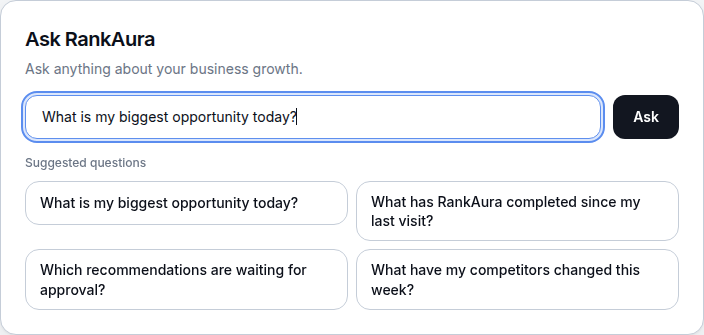
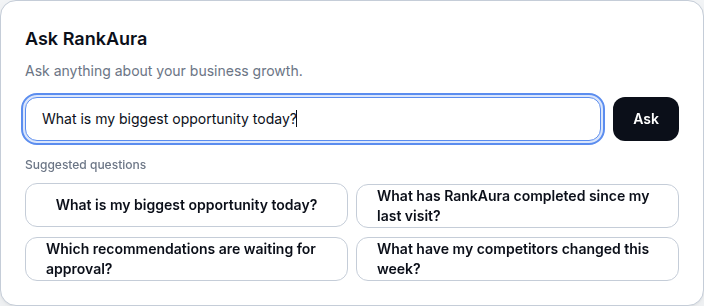
Conform Ask RankAura 100% to Workspace design system.
Reuse ButtonSecondary for suggested questions (no unique question chrome).
Match Ask section heading/spacing to peer Workspace cards. Remove Ask-only
answer divider and source callout box so no Ask-specific visuals remain.

diff --git a/tests/rankaura-design-system.test.js b/tests/rankaura-design-system.test.js
@@ -1,5 +1,5 @@
 /**
- * Design system contract — tokens and reusable UI components exist.
+ * Design system contract — Ask must reuse Workspace shared controls only.
  */
 const assert = require("assert");
 const fs = require("fs");
@@ -15,16 +15,19 @@ const globals = fs.readFileSync(
   "utf8",
 );
 const uiDir = path.join(root, "rankaura-web", "components", "ui");
-const askInput = fs.readFileSync(
-  path.join(
-    root,
-    "rankaura-web",
-    "components",
-    "ask-rankaura",
-    "AskRankAuraInput.tsx",
-  ),
+const askDir = path.join(root, "rankaura-web", "components", "ask-rankaura");
+const askInput = fs.readFileSync(path.join(askDir, "AskRankAuraInput.tsx"), "utf8");
+const askCard = fs.readFileSync(path.join(askDir, "AskRankAuraCard.tsx"), "utf8");
+const askSuggestions = fs.readFileSync(
+  path.join(askDir, "AskRankAuraSuggestions.tsx"),
   "utf8",
 );
+const askAnswer = fs.readFileSync(path.join(askDir, "AskRankAuraAnswer.tsx"), "utf8");
+const askSource = fs.readFileSync(
+  path.join(askDir, "AskRankAuraSourceNotice.tsx"),
+  "utf8",
+);
+const questionChip = fs.readFileSync(path.join(uiDir, "QuestionChip.tsx"), "utf8");
 const mock = fs.readFileSync(
   path.join(
     root,
@@ -57,11 +60,39 @@ assert.ok(fs.existsSync(path.join(uiDir, "RecommendationCard.tsx")));
 assert.ok(fs.existsSync(path.join(uiDir, "SuccessMark.tsx")));
 assert.ok(!askInput.includes("min-w-ra-ask"));
 assert.ok(!askInput.includes("min-w-["));
-assert.ok(!fs.readFileSync(path.join(root, "rankaura-web", "components", "ask-rankaura", "AskRankAuraCard.tsx"), "utf8").includes("accent"));
-assert.ok(fs.readFileSync(path.join(uiDir, "ButtonPrimary.tsx"), "utf8").includes("BUTTON_PRIMARY_CLASSNAME"));
-assert.ok(fs.readFileSync(path.join(uiDir, "SurfaceCard.tsx"), "utf8").includes("SURFACE_CARD_CLASSNAME"));
-assert.ok(!fs.readFileSync(path.join(uiDir, "SurfaceCard.tsx"), "utf8").includes("ra-card-accent"));
-assert.ok(!fs.readFileSync(path.join(uiDir, "SurfaceCard.tsx"), "utf8").includes("accent?:"));
+assert.ok(!askCard.includes("accent"));
+assert.ok(!askCard.includes("tracking-tight"));
+assert.ok(!askCard.includes("sm:text-xl"));
+assert.ok(askCard.includes("text-lg font-semibold text-ra-ink"));
+assert.ok(askCard.includes("SurfaceCard"));
+assert.ok(askSuggestions.includes("ButtonSecondary"));
+assert.ok(!askSuggestions.includes("QuestionChip"));
+assert.ok(!askAnswer.includes("border-t"));
+assert.ok(!askSource.includes("rounded-ra-md border"));
+assert.ok(!askSource.includes("bg-ra-neutral-soft"));
+assert.ok(questionChip.includes("ButtonSecondary"));
+assert.ok(questionChip.includes("BUTTON_SECONDARY_CLASSNAME"));
+assert.ok(!questionChip.includes("rounded-ra-lg"));
+assert.ok(
+  fs
+    .readFileSync(path.join(uiDir, "ButtonPrimary.tsx"), "utf8")
+    .includes("BUTTON_PRIMARY_CLASSNAME"),
+);
+assert.ok(
+  fs
+    .readFileSync(path.join(uiDir, "SurfaceCard.tsx"), "utf8")
+    .includes("SURFACE_CARD_CLASSNAME"),
+);
+assert.ok(
+  !fs
+    .readFileSync(path.join(uiDir, "SurfaceCard.tsx"), "utf8")
+    .includes("ra-card-accent"),
+);
+assert.ok(
+  !fs
+    .readFileSync(path.join(uiDir, "SurfaceCard.tsx"), "utf8")
+    .includes("accent?:"),
+);
 assert.ok(!globals.includes("--ra-border-accent"));
 assert.ok(
   !fs

diff --git a/rankaura-web/components/ui/QuestionChip.tsx b/rankaura-web/components/ui/QuestionChip.tsx
@@ -1,9 +1,15 @@
 import type { ButtonHTMLAttributes, ReactNode } from "react";
+import {
+  ButtonSecondary,
+  BUTTON_SECONDARY_CLASSNAME,
+} from "@/components/ui/ButtonSecondary";
 import { cn } from "@/utils/cn";
 
-/** THE one question button. Not a badge. Not a pill. */
-export const QUESTION_BUTTON_CLASSNAME =
-  "min-h-[44px] w-full rounded-ra-lg border border-ra-border bg-ra-surface px-3.5 py-2.5 text-left text-sm font-medium leading-snug text-ra-ink transition-colors duration-150 hover:border-ra-border-strong hover:bg-ra-surface-subtle active:border-ra-border-strong active:bg-ra-neutral-soft focus-visible:outline focus-visible:outline-2 focus-visible:outline-offset-2 focus-visible:outline-ra-focus";
+/**
+ * Suggested-question control = THE outlined secondary button.
+ * Layout-only helpers for full-width multi-line labels. No unique chrome.
+ */
+export const QUESTION_BUTTON_CLASSNAME = BUTTON_SECONDARY_CLASSNAME;
 
 interface QuestionChipProps extends ButtonHTMLAttributes<HTMLButtonElement> {
   children: ReactNode;
@@ -17,13 +23,16 @@ export function QuestionChip({
   ...props
 }: QuestionChipProps) {
   return (
-    <button
+    <ButtonSecondary
       type={type}
-      className={cn(QUESTION_BUTTON_CLASSNAME, className)}
+      className={cn(
+        "h-auto min-h-ra-control w-full justify-start text-left whitespace-normal",
+        className,
+      )}
       {...props}
     >
       {children}
-    </button>
+    </ButtonSecondary>
   );
 }
 

diff --git a/rankaura-web/components/ask-rankaura/AskRankAuraSuggestions.tsx b/rankaura-web/components/ask-rankaura/AskRankAuraSuggestions.tsx
@@ -1,6 +1,6 @@
 "use client";
 
-import { QuestionChip } from "@/components/ui/QuestionChip";
+import { ButtonSecondary } from "@/components/ui/ButtonSecondary";
 import type { AskRankAuraSuggestedQuestion } from "@/types/askRankAura";
 
 interface AskRankAuraSuggestionsProps {
@@ -8,6 +8,7 @@ interface AskRankAuraSuggestionsProps {
   onSelect: (text: string) => void;
 }
 
+/** Suggested questions reuse THE outlined secondary button — no Ask-only control. */
 export function AskRankAuraSuggestions({
   suggestions,
   onSelect,
@@ -21,9 +22,13 @@ export function AskRankAuraSuggestions({
       <ul className="mt-2.5 grid gap-2 sm:grid-cols-2">
         {items.map((suggestion) => (
           <li key={suggestion.id}>
-            <QuestionChip onClick={() => onSelect(suggestion.text)}>
+            <ButtonSecondary
+              type="button"
+              onClick={() => onSelect(suggestion.text)}
+              className="h-auto min-h-ra-control w-full justify-start text-left whitespace-normal"
+            >
               {suggestion.text}
-            </QuestionChip>
+            </ButtonSecondary>
           </li>
         ))}
       </ul>

diff --git a/rankaura-web/components/ask-rankaura/AskRankAuraSourceNotice.tsx b/rankaura-web/components/ask-rankaura/AskRankAuraSourceNotice.tsx
@@ -6,6 +6,7 @@ interface AskRankAuraSourceNoticeProps {
   availabilityNotice?: string;
 }
 
+/** Plain muted copy — same typography as Workspace support lines. No unique box. */
 export function AskRankAuraSourceNotice({
   sources,
   availabilityNotice,
@@ -22,15 +23,18 @@ export function AskRankAuraSourceNotice({
     : null;
 
   return (
-    <div
-      className="rounded-ra-md border border-ra-border bg-ra-neutral-soft px-3.5 py-3"
-      role="status"
-    >
+    <div role="status">
       {label ? (
         <p className="text-xs font-medium text-ra-muted">{label}</p>
       ) : null}
       {availabilityNotice ? (
-        <p className="mt-1 text-sm font-normal leading-relaxed text-ra-ink-soft">
+        <p
+          className={
+            label
+              ? "mt-1 text-sm font-normal text-ra-muted"
+              : "text-sm font-normal text-ra-muted"
+          }
+        >
           {availabilityNotice}
         </p>
       ) : null}

diff --git a/rankaura-web/app/design-system/page.tsx b/rankaura-web/app/design-system/page.tsx
@@ -70,12 +70,17 @@ export default function DesignSystemPage() {
         </SurfaceCard>
 
         <SurfaceCard data-testid="ds-questions">
-          <h2 className="text-base font-semibold">Question controls</h2>
+          <h2 className="text-base font-semibold">
+            Suggested questions (= ButtonSecondary)
+          </h2>
           <ul className="mt-4 grid gap-2 sm:grid-cols-2">
             <li>
-              <QuestionChip type="button">
+              <ButtonSecondary
+                type="button"
+                className="h-auto min-h-ra-control w-full justify-start text-left whitespace-normal"
+              >
                 What is my biggest opportunity today?
-              </QuestionChip>
+              </ButtonSecondary>
             </li>
             <li>
               <QuestionChip type="button">

diff --git a/rankaura-web/components/ask-rankaura/AskRankAuraAnswer.tsx b/rankaura-web/components/ask-rankaura/AskRankAuraAnswer.tsx
@@ -27,7 +27,7 @@ export function AskRankAuraAnswerPanel({
   );
 
   return (
-    <div className="mt-5 border-t border-ra-border pt-5" aria-live="polite">
+    <div className="mt-5" aria-live="polite">
       <p className="text-xs font-medium text-ra-muted">You asked</p>
       <h3
         ref={headingRef}
@@ -38,7 +38,7 @@ export function AskRankAuraAnswerPanel({
         {answer.questionText}
       </h3>
 
-      <p className="mt-4 text-base font-normal leading-relaxed text-ra-ink sm:text-lg">
+      <p className="mt-4 text-sm font-normal leading-relaxed text-ra-ink-soft sm:text-base">
         {answer.directAnswer}
       </p>
 

diff --git a/rankaura-web/components/ask-rankaura/AskRankAuraCard.tsx b/rankaura-web/components/ask-rankaura/AskRankAuraCard.tsx
@@ -59,11 +59,11 @@ export function AskRankAuraCard({ data }: AskRankAuraCardProps) {
     >
       <h2
         id="ask-rankaura-heading"
-        className="text-lg font-semibold tracking-tight text-ra-ink sm:text-xl"
+        className="text-lg font-semibold text-ra-ink"
       >
         {data.card.heading}
       </h2>
-      <p className="mt-1.5 text-sm font-normal text-ra-muted">
+      <p className="mt-2 text-sm font-normal text-ra-muted">
         {data.card.support}
       </p>
 

diff --git a/rankaura-web/components/ask-rankaura/AskRankAuraAnswerSection.tsx b/rankaura-web/components/ask-rankaura/AskRankAuraAnswerSection.tsx
@@ -10,7 +10,7 @@ export function AskRankAuraAnswerSectionView({
 }: AskRankAuraAnswerSectionProps) {
   return (
     <div>
-      <h4 className="text-[11px] font-medium tracking-[0.1em] text-ra-muted">
+      <h4 className="text-[11px] font-medium tracking-[0.08em] text-ra-muted">
         {section.title.toUpperCase()}
       </h4>
       <p className="mt-1.5 text-sm font-normal leading-relaxed text-ra-ink-soft">

diff --git a/docs/DESIGN_SYSTEM.md b/docs/DESIGN_SYSTEM.md
@@ -13,7 +13,7 @@
 
 2. **Every button, badge, input and interactive control must come from the shared RankAura component system.**
 
-3. **One Primary Button. One Secondary Button. One Badge. One Input. One Question Button. One Card. Reuse them everywhere. No Ask RankAura exceptions.**
+3. **One Primary Button. One Secondary (outlined) Button. One Badge. One Input. One Card. Reuse them everywhere. No Ask RankAura exceptions. Suggested questions use ButtonSecondary — not a unique pill.**
 
 4. Borders provide most of the structure. Shadows stay minimal.
 
@@ -71,7 +71,7 @@
 |-------|-------|--------|
 | `--ra-radius-sm` | `8px` | Compact badges may still use pill |
 | `--ra-radius-md` | `12px` | Buttons, inputs |
-| `--ra-radius-lg` | `14px` | Question buttons |
+| `--ra-radius-lg` | `14px` | Reserved (do not invent Ask-only uses) |
 | `--ra-radius-xl` | `16px` | Primary cards |
 | `--ra-radius-full` | `9999px` | Status badges only |
 
@@ -110,12 +110,11 @@ White, visible border, no default shadow, dark text, placeholder token.
 Hover: stronger border. Focus: focus border + ring. Disabled: subtle fill + muted text.
 
 ### QuestionButton / QuestionChip
-Rounded rectangle (lg), visible border, medium weight, white surface.  
-Hover/pressed: stronger border + subtle fill. Comfortable touch target. Not a status pill.
+**Alias of ButtonSecondary** (the outlined button). Same height, radius, border, typography, hover, focus, disabled. Layout-only helpers allowed (`w-full`, `text-left`) for multi-line suggested questions. Not a separate visual style.
 
 ### Card / SurfaceCard
 White, standard border, xl radius, shared shadow, consistent padding (`p-5 sm:p-6`).  
-Ask RankAura, Biggest Opportunity, Recent Wins, Growth Areas, and Recent Progress all use this same card. No accent variants.
+Ask RankAura, Biggest Opportunity, Recent Wins, Growth Areas, and Recent Progress all use this same card. No accent variants. No Ask-only borders, dividers, or callout boxes.
 
 ---
 
@@ -127,13 +126,17 @@ Focus-visible must be strong enough for keyboard users (2px outline + offset usi
 
 ---
 
-## Ask RankAura specifics
+## Ask RankAura compliance
 
 - Placeholder: **Ask about your business…**
-- Empty input → Ask button uses intentional **disabled** tokens
-- Valid input → Ask button switches to solid primary black immediately
+- Empty input → Ask button uses intentional **disabled** tokens (`ButtonPrimary`)
+- Valid input → Ask button switches to solid primary black immediately (`ButtonPrimary`)
+- Suggested questions → `ButtonSecondary` (same outlined button as View Progress / Open Strategy)
+- Card → shared `SurfaceCard` (same border, radius, shadow, padding as peer Workspace cards)
+- Section heading → same as Since last visit / Recent progress (`text-lg font-semibold text-ra-ink`)
 - Desktop: input + Ask side by side, equal height
 - Mobile: stacked full-width controls
+- **Zero Ask-specific visual styles** (no unique borders, callout boxes, radii, or typography)
 
 ---
 

diff --git a/docs/PRODUCT_GUARDRAILS.md b/docs/PRODUCT_GUARDRAILS.md
@@ -71,13 +71,13 @@ Official tokens and reusable controls live in `docs/DESIGN_SYSTEM.md`, `docs/DES
 
 1. **Calm does not mean visually weak. RankAura components must remain restrained while still being clearly defined, interactive and intentional.**
 2. **Every button, badge, input and interactive control must come from the shared RankAura component system.**
-3. **One Primary Button · One Secondary Button · One Badge · One Input · One Question Button · One Card.** Reuse everywhere. No Ask RankAura exceptions.
+3. **One Primary Button · One Secondary (outlined) Button · One Badge · One Input · One Card.** Reuse everywhere. No Ask RankAura exceptions. Suggested questions use `ButtonSecondary` — not a unique pill.
 4. Every new screen must reuse design tokens — do not invent one-off greys, radii, shadows, or button styles.
-5. Primary actions share one solid ink button (`ButtonPrimary`) with an intentional disabled state (`--ra-disabled-bg` / `--ra-disabled-fg`). Secondary actions use bordered white (`ButtonSecondary`). Text actions use accent links (`ButtonGhost`).
+5. Primary actions share one solid ink button (`ButtonPrimary`) with an intentional disabled state (`--ra-disabled-bg` / `--ra-disabled-fg`). Secondary / outlined actions use bordered white (`ButtonSecondary`). Text actions use accent links (`ButtonGhost`).
 6. Badges share one anatomy; tinted fill + clearly visible matching border + stronger text. Only colour changes by variant.
-7. Ask RankAura input uses the shared `Input` and placeholder **Ask about your business…**
+7. Ask RankAura input uses the shared `Input` and placeholder **Ask about your business…**. Ask heading/padding/card chrome must match peer Workspace section cards.
 8. Borders must be subtle but clearly visible (`--ra-border`); interactive hover uses `--ra-border-strong`.
-9. If covering the text with your hand, you must not be able to tell which Workspace section a control came from.
+9. If covering the text with your hand, you must not be able to tell which Workspace section a control came from. Zero Ask-specific visual styles.
 
 ## First-use flow (LOCKED)
 

diff --git a/docs/DESIGN_TOKENS.md b/docs/DESIGN_TOKENS.md
@@ -51,7 +51,6 @@ See `docs/DESIGN_SYSTEM.md` for full component documentation.
 | Token | Value | Usage |
 |-------|-------|--------|
 | `--ra-radius-md` | `12px` | Buttons, inputs |
-| `--ra-radius-lg` | `14px` | Question buttons |
 | `--ra-radius-xl` | `16px` | Cards |
 | `--ra-radius-full` | `9999px` | Status badges only |
 
@@ -70,7 +69,7 @@ Inputs / badges / chips: no default shadow.
 
 ## Components
 
-`ButtonPrimary` · `ButtonSecondary` · `ButtonGhost` · `Badge` · `Input` · `QuestionChip` / `QuestionButton` · `SurfaceCard` / `Card` · `TimelineItem` · `GrowthCard` · `RecommendationCard` · `SuccessMark`
+`ButtonPrimary` · `ButtonSecondary` (also used for suggested questions / `QuestionChip` alias) · `ButtonGhost` · `Badge` · `Input` · `SurfaceCard` / `Card` · `TimelineItem` · `GrowthCard` · `RecommendationCard` · `SuccessMark`
 
 Ask placeholder: **Ask about your business…**
 
